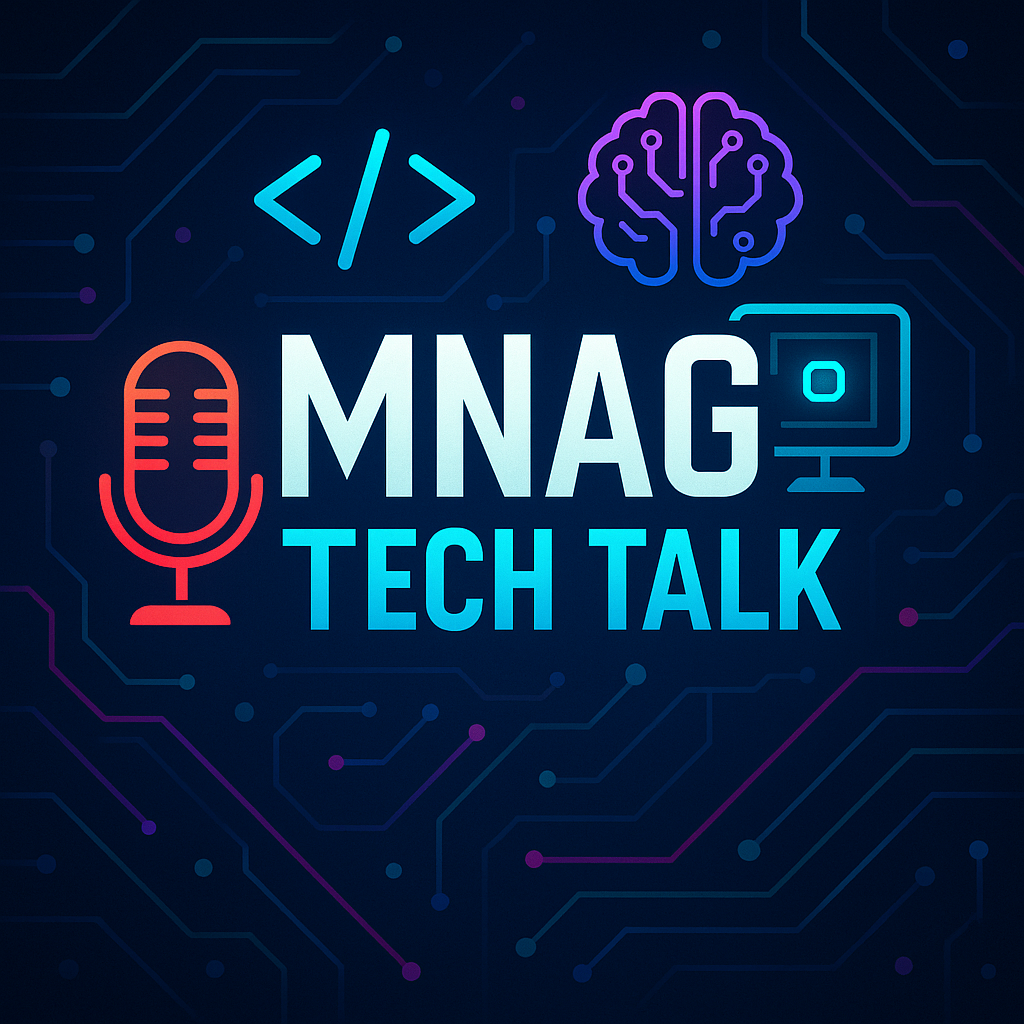
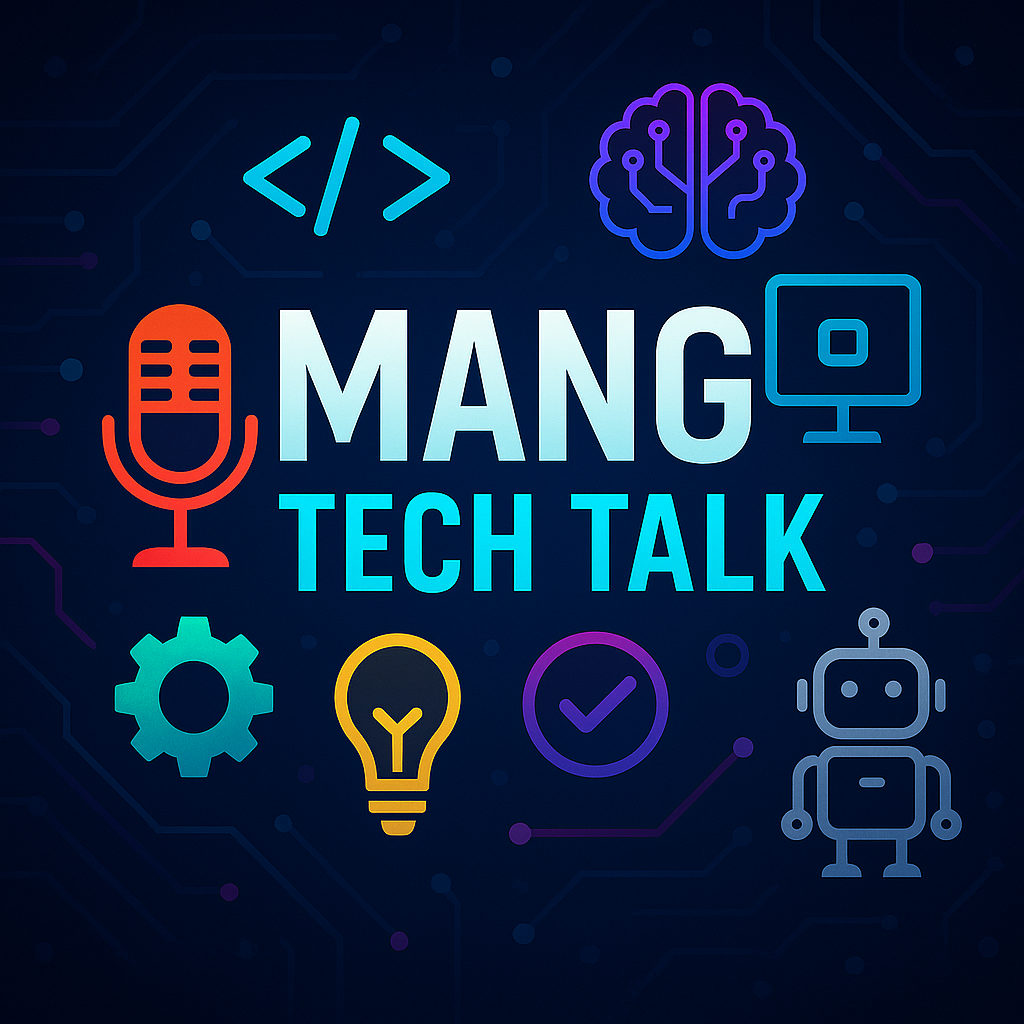
done

diff --git a/src/components/Banner.jsx b/src/components/Banner.jsx
@@ -1,35 +1,74 @@
-// import React from 'react'
+// // import React from 'react'
+// import logo from "../../public/MTT.png";
+
+// function Banner() {
+//     return (
+//         <>
+//             <div className="max-w-screen-2x1 container mx-auto md:px-10 px-4 flex flex-col md:flex-row my-10">
+//                 <div className="w-full order-2 md:order-1 md:w-1/2 mt-12 md:mt-36">
+//                     <div className="space-y-8">
+//                         <h1 className="text-2xl md:text-4xl font-bold">
+//                             Welcome to Mang Tech Talk — where innovation{" "}
+//                             <span className="text-pink-500">meets inspiration.!!!</span>
+//                         </h1>
+//                         <p className="text-sm md:text-xl">
+//                             Dive into a futuristic hub of tech discussions, cutting-edge trends, and real-world insights from developers, designers, AI enthusiasts, and digital creators. Whether you're a curious learner or a seasoned techie, this is your space to explore, connect, and grow. 🚀
+//                         </p>
+                       
+//                     </div>
+//                     <button className="btn mt-6 btn-secondary">Get Started</button>
+//                 </div>
+//                 <div className="order-1 w-full mt-20 md:w-1/2">
+//                     <img
+//                         src={logo}
+//                         className="rounded-full md:w-[440px] md:h-[430px] md:ml-12"
+//                         alt=""
+//                     />
+//                 </div>
+//             </div>
+//         </>
+//     )
+// }
+
+// export default Banner
+
+import React from "react";
 import logo from "../../public/MTT.png";
 
 function Banner() {
-    return (
-        <>
-            <div className="max-w-screen-2x1 container mx-auto md:px-10 px-4 flex flex-col md:flex-row my-10">
-                <div className="w-full order-2 md:order-1 md:w-1/2 mt-12 md:mt-36">
-                    <div className="space-y-8">
-                        <h1 className="text-2xl md:text-4xl font-bold">
-                            Welcomes here to learn something{" "}
-                            <span className="text-pink-500">new everyday!!!</span>
-                        </h1>
-                        <p className="text-sm md:text-xl">
-                            Lorem, ipsum dolor sit amet consectetur adipisicing elit. Dolor,
-                            et totam. Tempora amet atque expedita, quae corrupti totam sed
-                            pariatur corporis at veniam est voluptas animi!
-                        </p>
-                       
-                    </div>
-                    <button className="btn mt-6 btn-secondary">Get Started</button>
-                </div>
-                <div className="order-1 w-full mt-20 md:w-1/2">
-                    <img
-                        src={logo}
-                        className="rounded-full md:w-[440px] md:h-[430px] md:ml-12"
-                        alt=""
-                    />
-                </div>
-            </div>
-        </>
-    )
+  return (
+    
+    <section className="bg-gray-950 text-white py-16 mt-16">
+      <div className="container mx-auto max-w-screen-xl px-4 flex flex-col-reverse md:flex-row items-center gap-12">
+        {/* Text Content */}
+        <div className="w-full md:w-1/2">
+          <div className="space-y-6 md:space-y-8">
+            <h1 className="text-3xl md:text-5xl font-extrabold leading-tight">
+              Welcome to <span className="text-blue-500">Mang Tech Talk</span> —<br />
+              where <span className="text-pink-500">innovation</span> meets <span className="text-green-400">inspiration</span>!
+            </h1>
+
+            <p className="text-base md:text-lg text-gray-300">
+              Dive into a futuristic hub of tech discussions, cutting-edge trends, and real-world insights from developers, designers, AI enthusiasts, and digital creators. Whether you're a curious learner or a seasoned techie, this is your space to explore, connect, and grow. 🚀
+            </p>
+
+            <button className="bg-pink-600 hover:bg-pink-700 text-white font-semibold py-3 px-6 rounded-md transition duration-300 shadow-lg">
+              Get Started
+            </button>
+          </div>
+        </div>
+
+        {/* Image */}
+        <div className="w-full md:w-1/2 flex justify-center">
+          <img
+            src={logo}
+            alt="Mang Tech Talk Logo"
+            className="w-64 h-64 md:w-[420px] md:h-[420px] rounded-full shadow-2xl border-4 border-pink-500 hover:scale-105 transition-transform duration-300"
+          />
+        </div>
+      </div>
+    </section>
+  );
 }
 
-export default Banner
+export default Banner;

diff --git a/src/components/about.jsx b/src/components/about.jsx
@@ -22,7 +22,7 @@ function About() {
         </h1>
 
         <p className="text-lg text-gray-700 mb-12 leading-8">
-          <strong className="text-blue-900">Mnag Tech Talk</strong> is not just a tech blog—it's a future-facing space
+          <strong className="text-blue-900">Mang Tech Talk</strong> is not just a tech blog—it's a future-facing space
           where ideas, code, and creators collide. We talk systems, scale, strategy—and everything in between. Whether you’re
           a dev, designer, PM, AI researcher, or just curious about what's next, this is your playground for sharp insights,
           deep tech, and smart execution.
@@ -49,7 +49,7 @@ function About() {
                 Ideas That Ship
               </h2>
               <p className="leading-relaxed">
-                We don't just think—we build. Mnag Tech Talk is about ideas that translate into impact. Product innovation,
+                We don't just think—we build. Mang Tech Talk is about ideas that translate into impact. Product innovation,
                 feature design, and shipping fast (without breaking everything).
               </p>
             </div>
@@ -88,7 +88,7 @@ function About() {
                 Built for Builders
               </h2>
               <p className="leading-relaxed">
-                Mnag Tech Talk is a space for the makers, the tinkerers, the leaders, and the curious minds who want more than
+                Mang Tech Talk is a space for the makers, the tinkerers, the leaders, and the curious minds who want more than
                 surface-level content. We celebrate bold thinking and smarter execution.
               </p>
             </div>
@@ -104,7 +104,7 @@ function About() {
                 🤖 Future-Proof Thinking
               </h2>
               <p className="text-gray-700 leading-relaxed text-lg">
-                We embrace AI, automation, and emerging tech—not as hype, but as tools that unlock velocity. Mnag Tech Talk
+                We embrace AI, automation, and emerging tech—not as hype, but as tools that unlock velocity. Mang Tech Talk
                 explores how to leverage AI for ideation, engineering, productivity, and creative workflows—while keeping
                 the human in the loop.
               </p>

diff --git a/src/components/Topics.jsx b/src/components/Topics.jsx
@@ -1,0 +1,22 @@
+import React from "react";
+import topicsData from "../data/topicsData";
+
+const Topics = () => {
+  return (
+    <section className="py-12  text-white">
+      <div className="max-w-6xl mx-auto px-4">
+        <h2 className="text-3xl text-gray-900 font-bold text-center mb-8">Tech Talk Topics</h2>
+        <div className="grid grid-cols-1 sm:grid-cols-2 md:grid-cols-3 gap-6">
+          {topicsData.map((topic, index) => (
+            <div key={index} className="bg-gray-800 p-6 rounded-lg shadow-md hover:shadow-blue-500/30 hover:scale-105 transition">
+              <h3 className="text-xl font-semibold text-blue-400 mb-2">{topic.title}</h3>
+              <p className="text-sm text-gray-300">{topic.description}</p>
+            </div>
+          ))}
+        </div>
+      </div>
+    </section>
+  );
+};
+
+export default Topics;

diff --git a/src/data/topicsData.jsx b/src/data/topicsData.jsx
@@ -1,0 +1,28 @@
+const topicsData = [
+  {
+    title: "Artificial Intelligence",
+    description: "Explore cutting-edge AI models, trends, and real-world applications.",
+  },
+  {
+    title: "Web Development",
+    description: "Frontend, backend, and fullstack engineering for the modern web.",
+  },
+  {
+    title: "Cybersecurity",
+    description: "Protect digital assets and dive into ethical hacking practices.",
+  },
+  {
+    title: "Cloud & DevOps",
+    description: "From Docker to AWS, deploy faster and smarter.",
+  },
+  {
+    title: "Blockchain & Web3",
+    description: "Understand decentralized tech powering the next internet.",
+  },
+  {
+    title: "UI/UX Design",
+    description: "Design with purpose, delight users, and lead product experiences.",
+  },
+];
+
+export default topicsData;

diff --git a/src/home/Home.jsx b/src/home/Home.jsx
@@ -4,12 +4,14 @@ import Bolgs from "../components/Bolgs"
 import Footer from "../components/Footer"
 import Navbar from "../components/Navbar"
 import About from "../components/about"
+import Topics from "../components/Topics"
 function Home() {
   return (
     <>
     <Navbar/>
     <Banner/>
     <About/>
+    <Topics/>
     <Bolgs/>
     <Footer/>
     </>

diff --git a/index.html b/index.html
@@ -2,7 +2,7 @@
 <html lang="en">
   <head>
     <meta charset="UTF-8" />
-    <link rel="icon" type="image/svg+xml" href="/vite.svg" />
+    <link rel="icon" type="image/svg+xml" href="/MTT.png" />
     <meta name="viewport" content="width=device-width, initial-scale=1.0" />
     <title>Mang Tech Talk</title>
   </head>
